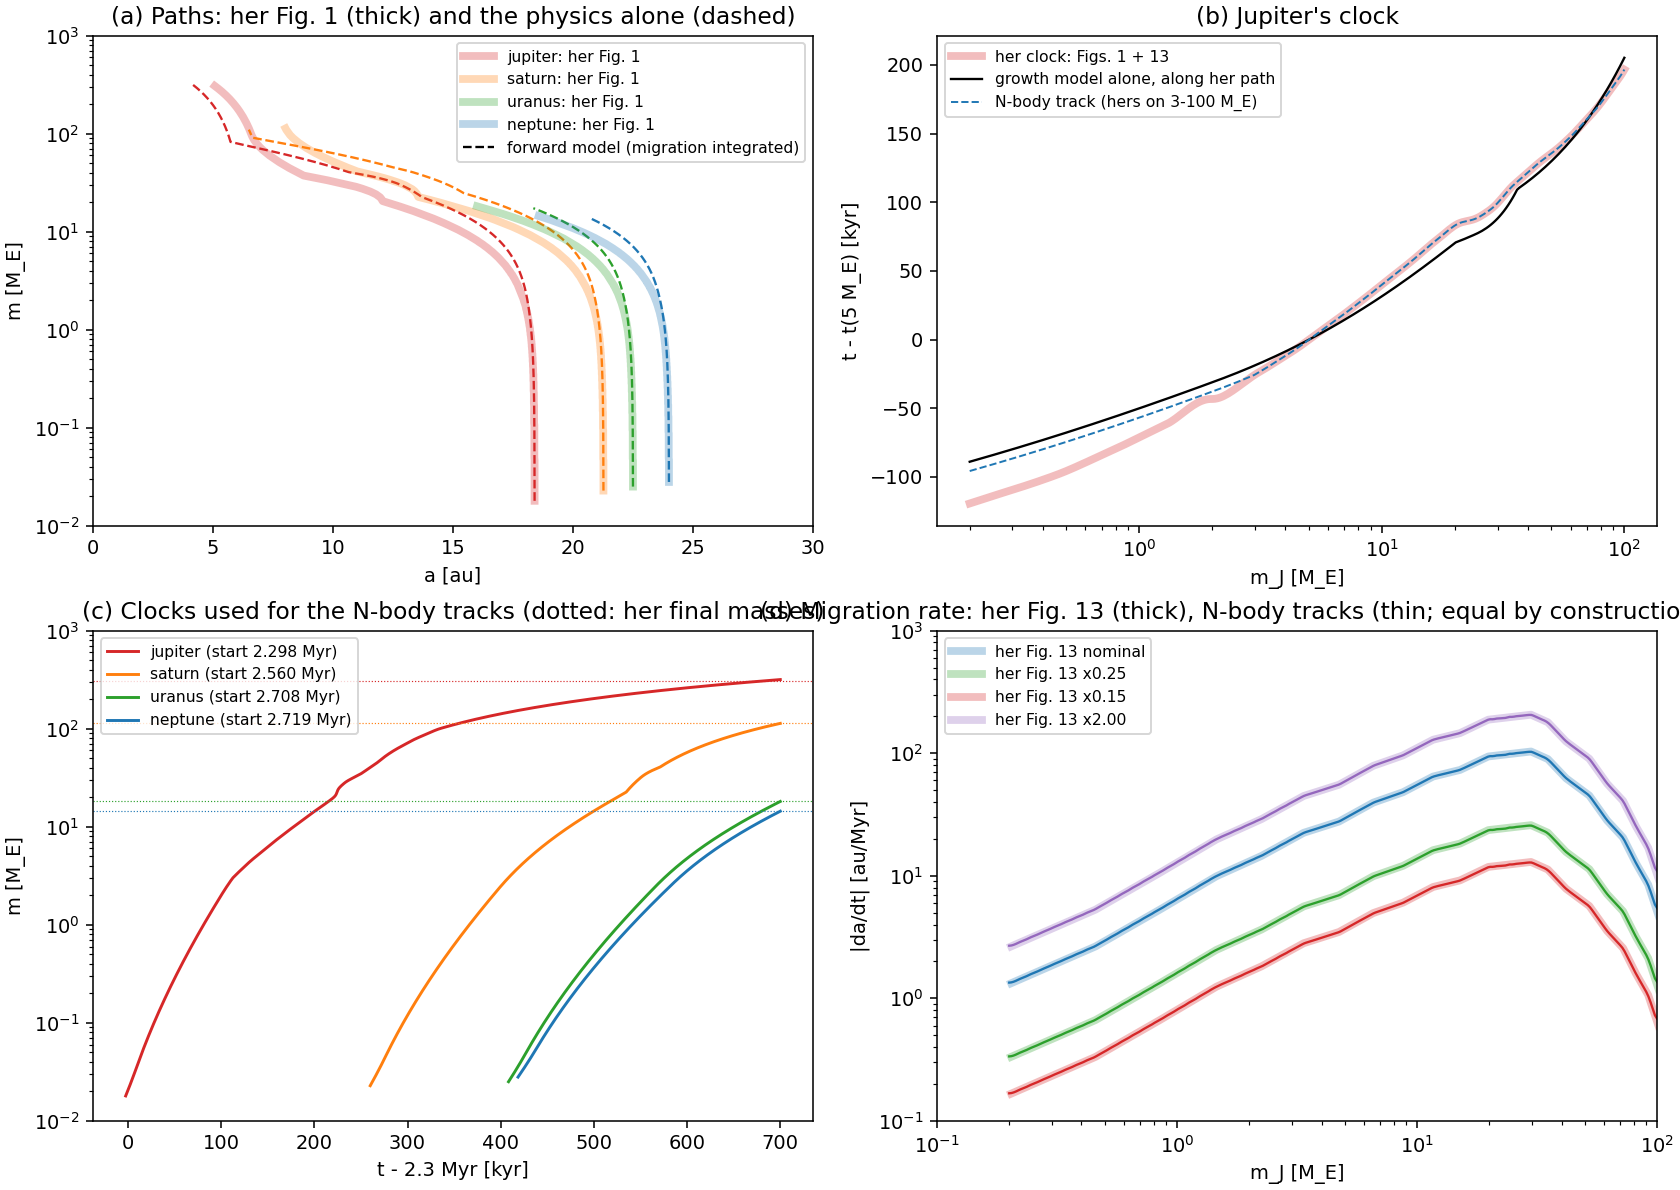
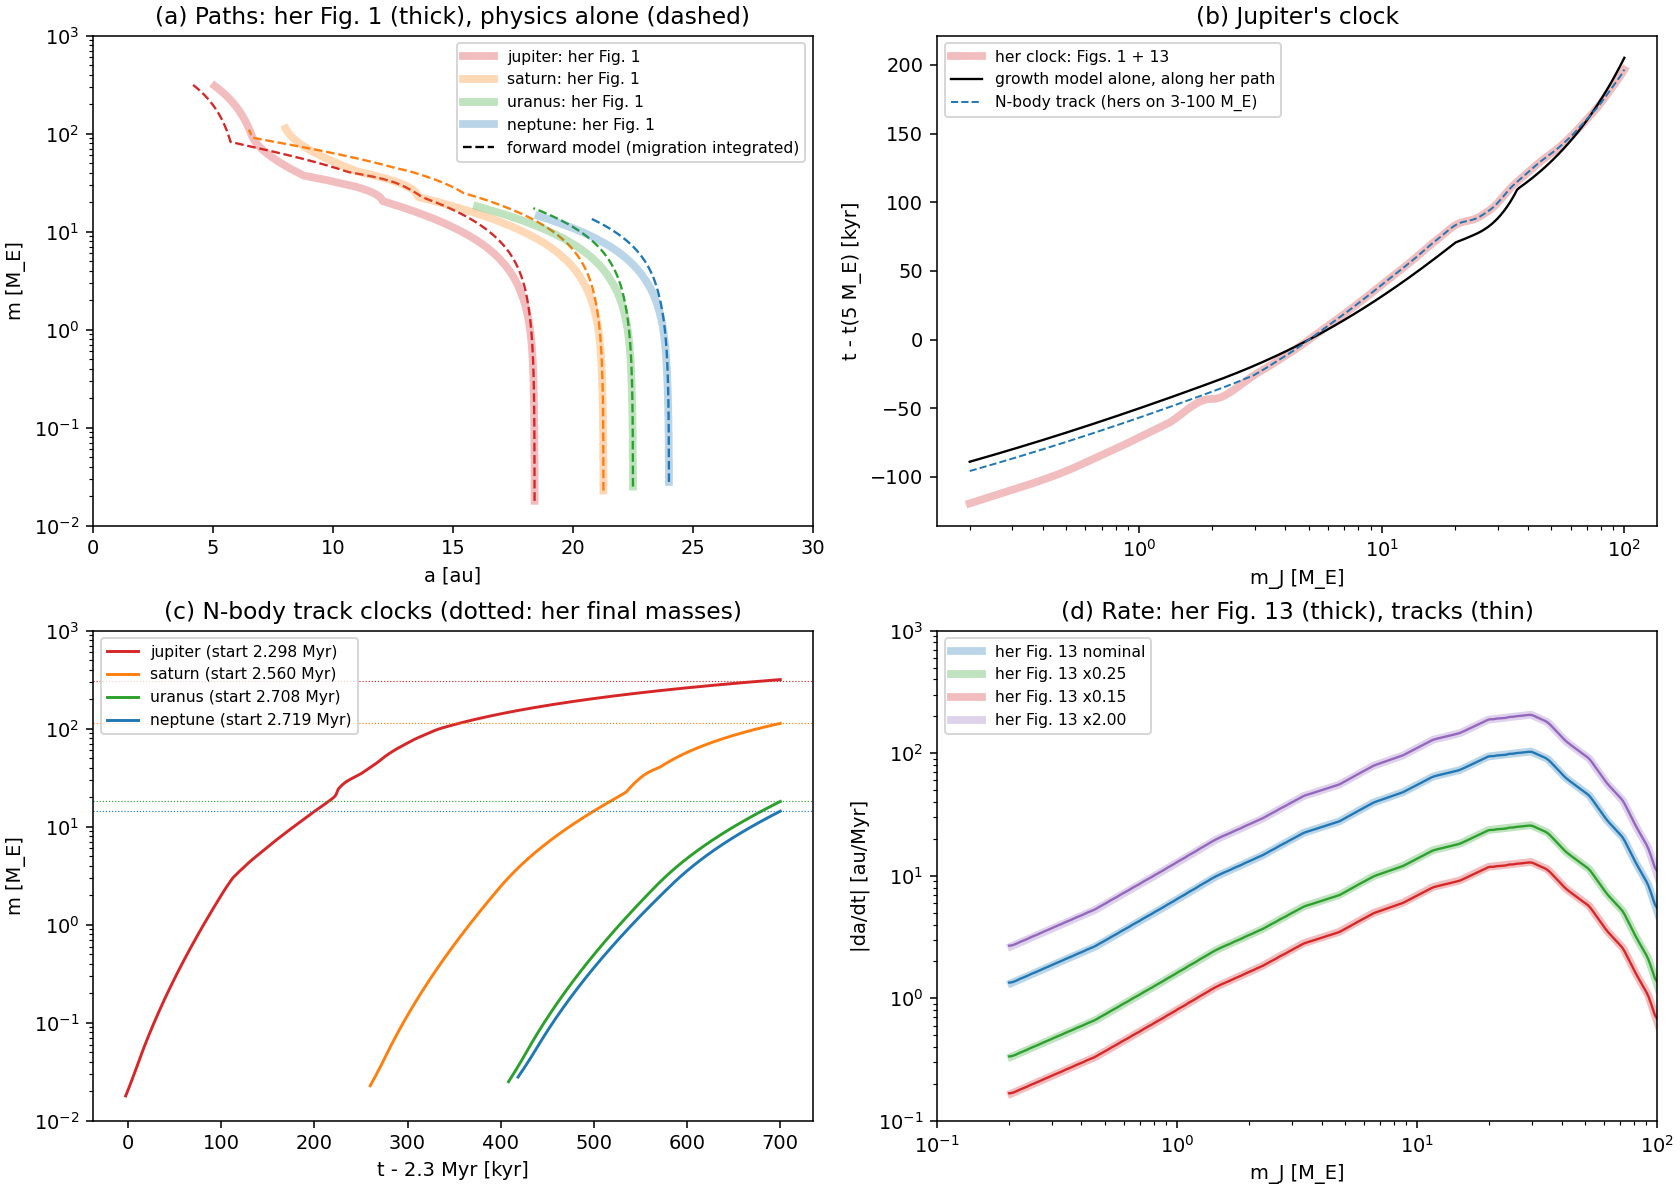
Stage 9: shorter panel titles in verification.png

Changed region(s): [[0.0619, 0.4975, 1.0, 0.5286], [0.0619, 0.0, 0.4643, 0.0311]]

diff --git a/campaign/scripts/s9_pirani_tracks.py b/campaign/scripts/s9_pirani_tracks.py
@@ -295,7 +295,7 @@ def figure(clocks, fwd, gm, th, vh, starts):
         ax[1, 0].axhline(FINAL_MASS_FIG1[n], color=c, lw=0.6, ls=":")
     ax[0, 0].plot([], [], "k--", lw=1.2, label="forward model (migration integrated)")
     ax[0, 0].set(yscale="log", xlabel="a [au]", ylabel="m [M_E]", xlim=(0, 30), ylim=(1e-2, 1e3),
-                 title="(a) Paths: her Fig. 1 (thick) and the physics alone (dashed)")
+                 title="(a) Paths: her Fig. 1 (thick), physics alone (dashed)")
     ax[0, 0].legend(fontsize=8)
     rj = clocks["jupiter"]
     tm = np.interp(gm, rj["m"], rj["t"])
@@ -308,7 +308,7 @@ def figure(clocks, fwd, gm, th, vh, starts):
     ax[0, 1].set(xscale="log", xlabel="m_J [M_E]", ylabel="t - t(5 M_E) [kyr]", title="(b) Jupiter's clock")
     ax[0, 1].legend(fontsize=8)
     ax[1, 0].set(yscale="log", xlabel="t - 2.3 Myr [kyr]", ylabel="m [M_E]", ylim=(1e-2, 1e3),
-                 title="(c) Clocks used for the N-body tracks (dotted: her final masses)")
+                 title="(c) N-body track clocks (dotted: her final masses)")
     ax[1, 0].legend(fontsize=8)
     v_model = np.abs(np.gradient(np.interp(gm, rj["m"], rj["a"]), np.interp(gm, rj["m"], rj["t"]))) * 1e6
     for lab, k, c in [("nominal", 1.0, "#1f77b4"), ("x0.25", 0.25, "#2ca02c"), ("x0.15", 0.125, "#d62728"),
@@ -318,7 +318,7 @@ def figure(clocks, fwd, gm, th, vh, starts):
         ax[1, 1].plot(mr[o], vr[o], color=c, lw=4, alpha=0.3, label=f"her Fig. 13 {lab}")
         ax[1, 1].plot(gm, k * v_model, color=c, lw=1.2)
     ax[1, 1].set(xscale="log", yscale="log", xlabel="m_J [M_E]", ylabel="|da/dt| [au/Myr]", xlim=(0.1, 100),
-                 ylim=(0.1, 1000), title="(d) Migration rate: her Fig. 13 (thick), N-body tracks (thin; equal by construction 3-100 M_E)")
+                 ylim=(0.1, 1000), title="(d) Rate: her Fig. 13 (thick), tracks (thin)")
     ax[1, 1].legend(fontsize=8)
     fig.savefig(REPORT / "verification.png", dpi=140)
 
